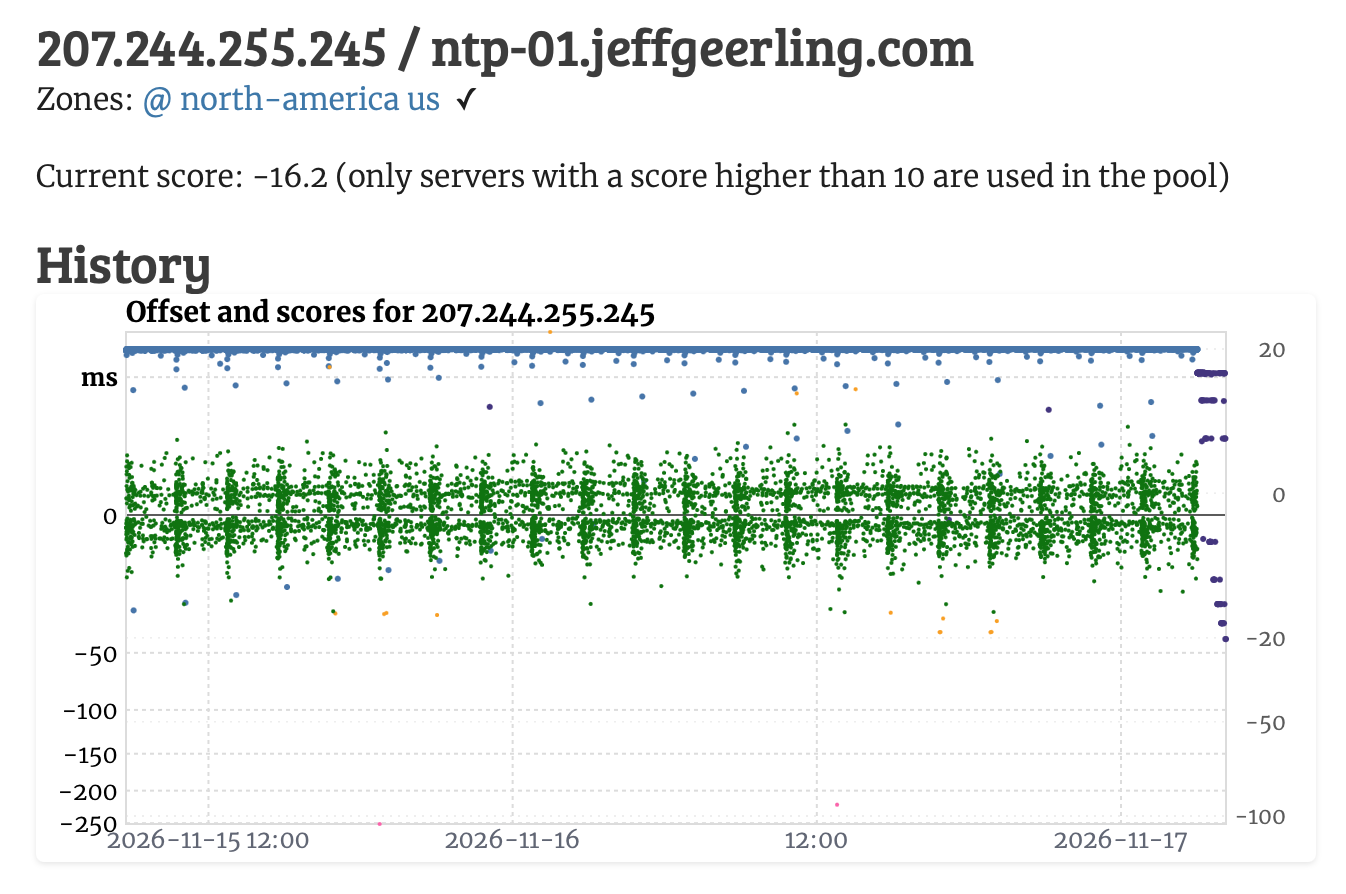
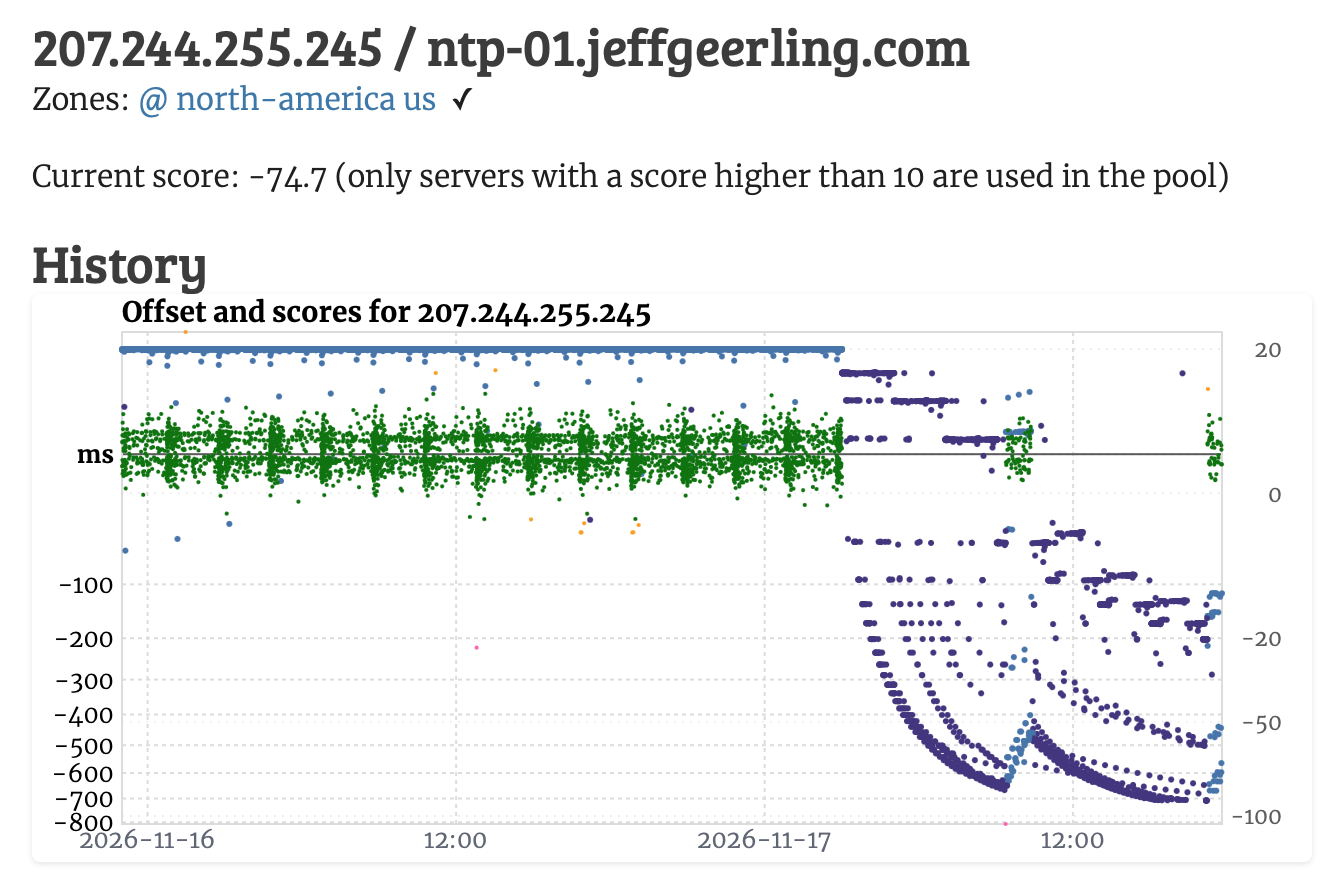
NTP Pool blog post revised.

Changed region(s): [[0.0, 0.273, 0.9791, 0.9708], [0.0306, 0.0303, 0.6425, 0.1517], [0.0, 0.182, 0.9179, 0.2124]]

diff --git a/content/blog/2026/11/i-joined-the-ntp-pool/index.md b/content/blog/2026/11/i-joined-the-ntp-pool/index.md
@@ -4,19 +4,31 @@ tags: ['ntp', 'ntp pool', 'time', 'video', 'youtube', 'raspberry pi', 'open sour
 title: 'I joined the NTP Pool, but not with my Stratum 1 Pi'
 slug: 'i-joined-the-ntp-pool'
 ---
-TODO Photo of my clock rack.
+{{< figure
+  src="clock-rack-in-studio.jpg"
+  alt="Clock rack in studio"
+  width="700"
+  height="auto"
+  class="insert-image"
+>}}
 
 Before I get _too_ deep into the [time-nuts](http://www.leapsecond.com/time-nuts.htm) rabbit hole, I figured I should share a little bit of the good time I now have in my studio, with everyone _else_.
 
-Thus, I've finally joined the [NTP Pool](TODO), offering one public Stratum 2 NTP time server ([`ntp-01.jeffgeerling.com`](https://www.ntppool.org/scores/207.244.255.245)), which gets its time from my Straum 1 time server ([`time.jeffgeerling.com`](https://time.jeffgeerling.com)) in the studio.
+Thus, I've finally joined the [NTP Pool](https://www.ntppool.org/en/), offering one public Stratum 2 NTP time server ([`ntp-01.jeffgeerling.com`](https://www.ntppool.org/scores/207.244.255.245)), which gets its time from my Stratum 1 time server ([`time.jeffgeerling.com`](https://time.jeffgeerling.com)) in the studio.
 
-TODO: Photo of Stratum 1 Pi
+{{< figure
+  src="time-pi-running-in-rack.jpg"
+  alt="Stratum 1 Time Pi in rack with MasterClock NTP Clock above"
+  width="700"
+  height="auto"
+  class="insert-image"
+>}}
 
-My [Time Pi](TODO) is connected to an outside GNSS antenna through a [TimeHAT](TODO), which includes a high quality timing-grade GNSS module, the [u-blox ZED-F9T](https://www.u-blox.com/en/product/zed-f9t-module).
+My [Time Pi](https://github.com/geerlingguy/time-pi) is connected to an outside GNSS antenna through a [TimeHAT v6](https://github.com/Time-Appliances-Project/TimeHAT), which I paired with a high quality timing-grade GNSS module, the [u-blox ZED-F9T](https://www.u-blox.com/en/product/zed-f9t-module).
 
 I posted a video about the setup today on YouTube:
 
-<div class="yt-dlp">
+<div class="yt-embed">
   <style>.embed-container { position: relative; padding-bottom: 56.25%; height: 0; overflow: hidden; max-width: 100%; } .embed-container iframe, .embed-container object, .embed-container embed { position: absolute; top: 0; left: 0; width: 100%; height: 100%; }</style><div class='embed-container'><iframe src='https://www.youtube.com/embed/fWXB5u4lXk0' frameborder='0' allowfullscreen></iframe></div>
 </div>
 
@@ -28,7 +40,7 @@ You don't need to go all out with a timing-grade GNSS module like I'm using. Hec
 
 The main requirements for hosting a node in the global NTP pool are:
 
-  1. Keeping the system online (servers are only made active in the pool if they're online and serving a decent time over a long period of time)
+  1. Keeping the system online (servers are only made active in the pool if they're online and serving good time consistently for a long period)
   2. Maintaining a good time—which can mean Stratum 1 GNSS service, but could also mean pulling time from a few other reliable time servers, and running as Stratum 2 or 3
   3. A stable IP address (IPv4 and/or IPv6), and a long-term commitment
 
@@ -52,7 +64,7 @@ For those reasons, I chose to have two layers to my public time services:
   - **Stratum 1**: I have my Time Pi running in the studio, running a WireGuard tunnel to:
   - **Stratum 2**: A VPS I host with a cloud provider in St. Louis, to keep the latency down (ideally with fewer hops across the Internet, which leads to better time sync via NTP)
 
-I include the Stratum 2 time server in my Stratum 1 time server's `chrony` config as a `noselect` refclock, so I can easily compare the Internet delay between the two servers, outside the WireGuard tunnel:
+I include the Stratum 2 time server in my Stratum 1 time server's `chrony` config as a `noselect` source, so I can easily compare the Internet delay between the two servers, outside the WireGuard tunnel:
 
 ```
 server ntp-01.jeffgeerling.com noselect
@@ -60,9 +72,23 @@ server ntp-01.jeffgeerling.com noselect
 
 This provides me with the following graph:
 
-TODO: ntp-server-comparison-graph.png
+{{< figure
+  src="ntp-server-comparison-graph.png"
+  alt="NTP Server comparison graph"
+  width="700"
+  height="auto"
+  class="insert-image"
+>}}
 
-I've been tracking my time in comparison to an NTP time server hosted at WWV in Ft. Collins, CO, as well as one of NIST's NTP servers in Boulder, CO.
+I've been tracking my time in comparison to an NTP time server hosted at WWV in Ft. Collins, CO (pictured below), one of NIST's NTP servers in Boulder, CO, and Cloudflare.
+
+{{< figure
+  src="wwv-ntp-server-with-jeff-iphone.jpg"
+  alt="WWV's NTP server with my iphone comparing it in the foreground"
+  width="700"
+  height="auto"
+  class="insert-image"
+>}}
 
 For typical NTP configurations, you shouldn't single out time servers like this; I'm only doing it for long-term measurement (and I only poll the servers every 1024 seconds). Most systems should use pool addresses, [as documented here](https://www.ntppool.org/en/use.html).
 
@@ -74,15 +100,21 @@ The line for Cloudflare steps up and down sometimes, most likely due to BGP rout
 
 My Time Pi is not only serving as a Stratum 1 timing reference for my public NTP server, it's also my primary reference for local time in the studio.
 
-TODO: Photo of TimeHAT closer.
+{{< figure
+  src="stratum-1-time-pi-in-rack.jpg"
+  alt="Stratum 1 Time Pi NTP and PTP server"
+  width="700"
+  height="auto"
+  class="insert-image"
+>}}
 
-The TimeHAT on top does most of the heavy lifting, with it's built-in Intel i226 NIC (with hardware timestamping, essential for accurate PTP timing on the LAN) and a timing-grade GNSS module.
+The TimeHAT on top does most of the heavy lifting, with its built-in Intel i226 NIC. The i226 includes hardware timestamping, essential for accurate PTP timing on the LAN. To deliver the most accurate time possible, I installed a timing-grade GNSS receiver (u-blox ZED-F9T, built to the [M.2 NGFF Sync Module](https://www.opencompute.org/documents/m-2-sync-module-ocp-base-specification-1-1-pdf/) specification.
 
 The entire configuration (for both servers) is managed by Ansible in my [time-pi](https://github.com/geerlingguy/time-pi) project.
 
-Using the i226, I'm able to discipline the NIC's hardware clock (called the 'PHC', or 'PTP Hardware Clock') _in hardware_, directly from the GPS module's PPS (Pulse Per Second) pin. Using Linux's `ts2phc` tool, I can discipline the PHC to within tens-of-ns of UTC, and distribute that time to other PTP-aware computers on the LAN.
+Using the i226, I'm able to discipline the NIC's hardware clock (called the 'PHC', or 'PTP Hardware Clock') _in hardware_, directly from the GPS module's PPS (Pulse Per Second) pin. Using linuxptp's `ts2phc` tool, I can discipline the PHC to within tens-of-ns of UTC, and distribute that time to other PTP-aware computers on the LAN.
 
-The time on the PHC is shared to my Pi's system clock using `refclock PHC` inside Chrony, instead of `phc2sys`, because I was experiencing a weird 200ms jump every so often. Chrony then disciplines the quartz oscillator on the Pi itself, but this can only be accurate to within a microsecond or less, because the pulse goes through the Linux kernel, and adds a little latency.
+The time on the PHC is shared to my Pi's system clock using `refclock PHC` inside Chrony, instead of `phc2sys`, because I was experiencing a weird 200ms jump every so often. Chrony then disciplines the system clock, but this can only be accurate to about a microsecond, because the pulse goes through the PCIe bus, which adds latency I can't measure.
 
 > I'm actually trying to make this latency more measurable, since GPIO is routed through the RP1 chip deterministically. See [ahmadexp's rp1-ptp-pps utility PR](https://github.com/raspberrypi/utils/pull/214). [PTM](https://pcisig.com/PCIExpress/ECN/Base/PrecisionTimeMeasurement_1.0a) could reduce the error between the NIC's PHC and the system clock to a few ns, but the BCM2712 SoC on the Pi doesn't support it.
 
@@ -92,16 +124,24 @@ One other quirk I ran into was Debian's default `sourcedir /run/chrony-dhcp` dir
 
 I'm hosting my public Stratum 2 server with [Oxtrys](https://www.oxtrys.com), a VPS provider I'd never used before—and one thing I was nervous about was how they'd react to a VPS handling only UDP packets like this.
 
-Some automated firewalls shut down public NTP servers because they can _look_ like abuse vectors. I wondered if that was the case late on the night November 16, as I was _writing this blog post_:
+Some automated firewalls shut down public NTP servers because they can _look_ like abuse vectors. I wondered if that was the case late on the night of November 16, as I was _writing this blog post_:
 
-TODO: ntp-01-server-offline-pool-score.png
+{{< figure
+  src="ntp-01-server-offline-pool-score.png"
+  alt="NTP Server offline in the NTP Pool"
+  width="700"
+  height="auto"
+  class="insert-image"
+>}}
 
-I tried SSH'ing to the server, and found it inaccessible.
+But looking at the logs further, it _might_ be related to an unattended upgrade and automatic reboot for a new Debian Linux kernel version. It will take a few more days' debugging to figure out if that's definitely the cause.
 
-TODO: I emailed oxtrys support... todo todo
+For now I've set the server to run automatic upgrades, but leave reboots to me!
+
+Oxtrys' live chat support has been responsive enough, though right now (until November 22, apparently) their account dashboard is broken and does not give me out-of-band VPS management options I'm used to with other providers.
 
 ## Conclusion
 
-I've certainly learned a lot, every stage of this journey: NTP is loaded with utility, and is currently an essential piece of global timing infrastructure. I think I know about 1% (probably less) of what there is to know about hosting a public NTP server, and hopefully I can share more as I increase that to a few more percentage points!
+I've certainly learned a lot at every stage of this journey: NTP is loaded with utility, and is currently an essential piece of global timing infrastructure. I think I know about 1% (probably less) of what there is to know about hosting a public NTP server, and hopefully I can share more as I increase that to a few more percentage points!
 
 I'm thankful to all the other NTP Pool operators, as well as all the timelords who built and manage massive NTP endpoints like `time.apple.com`, `time.cloudflare.com`, etc.
